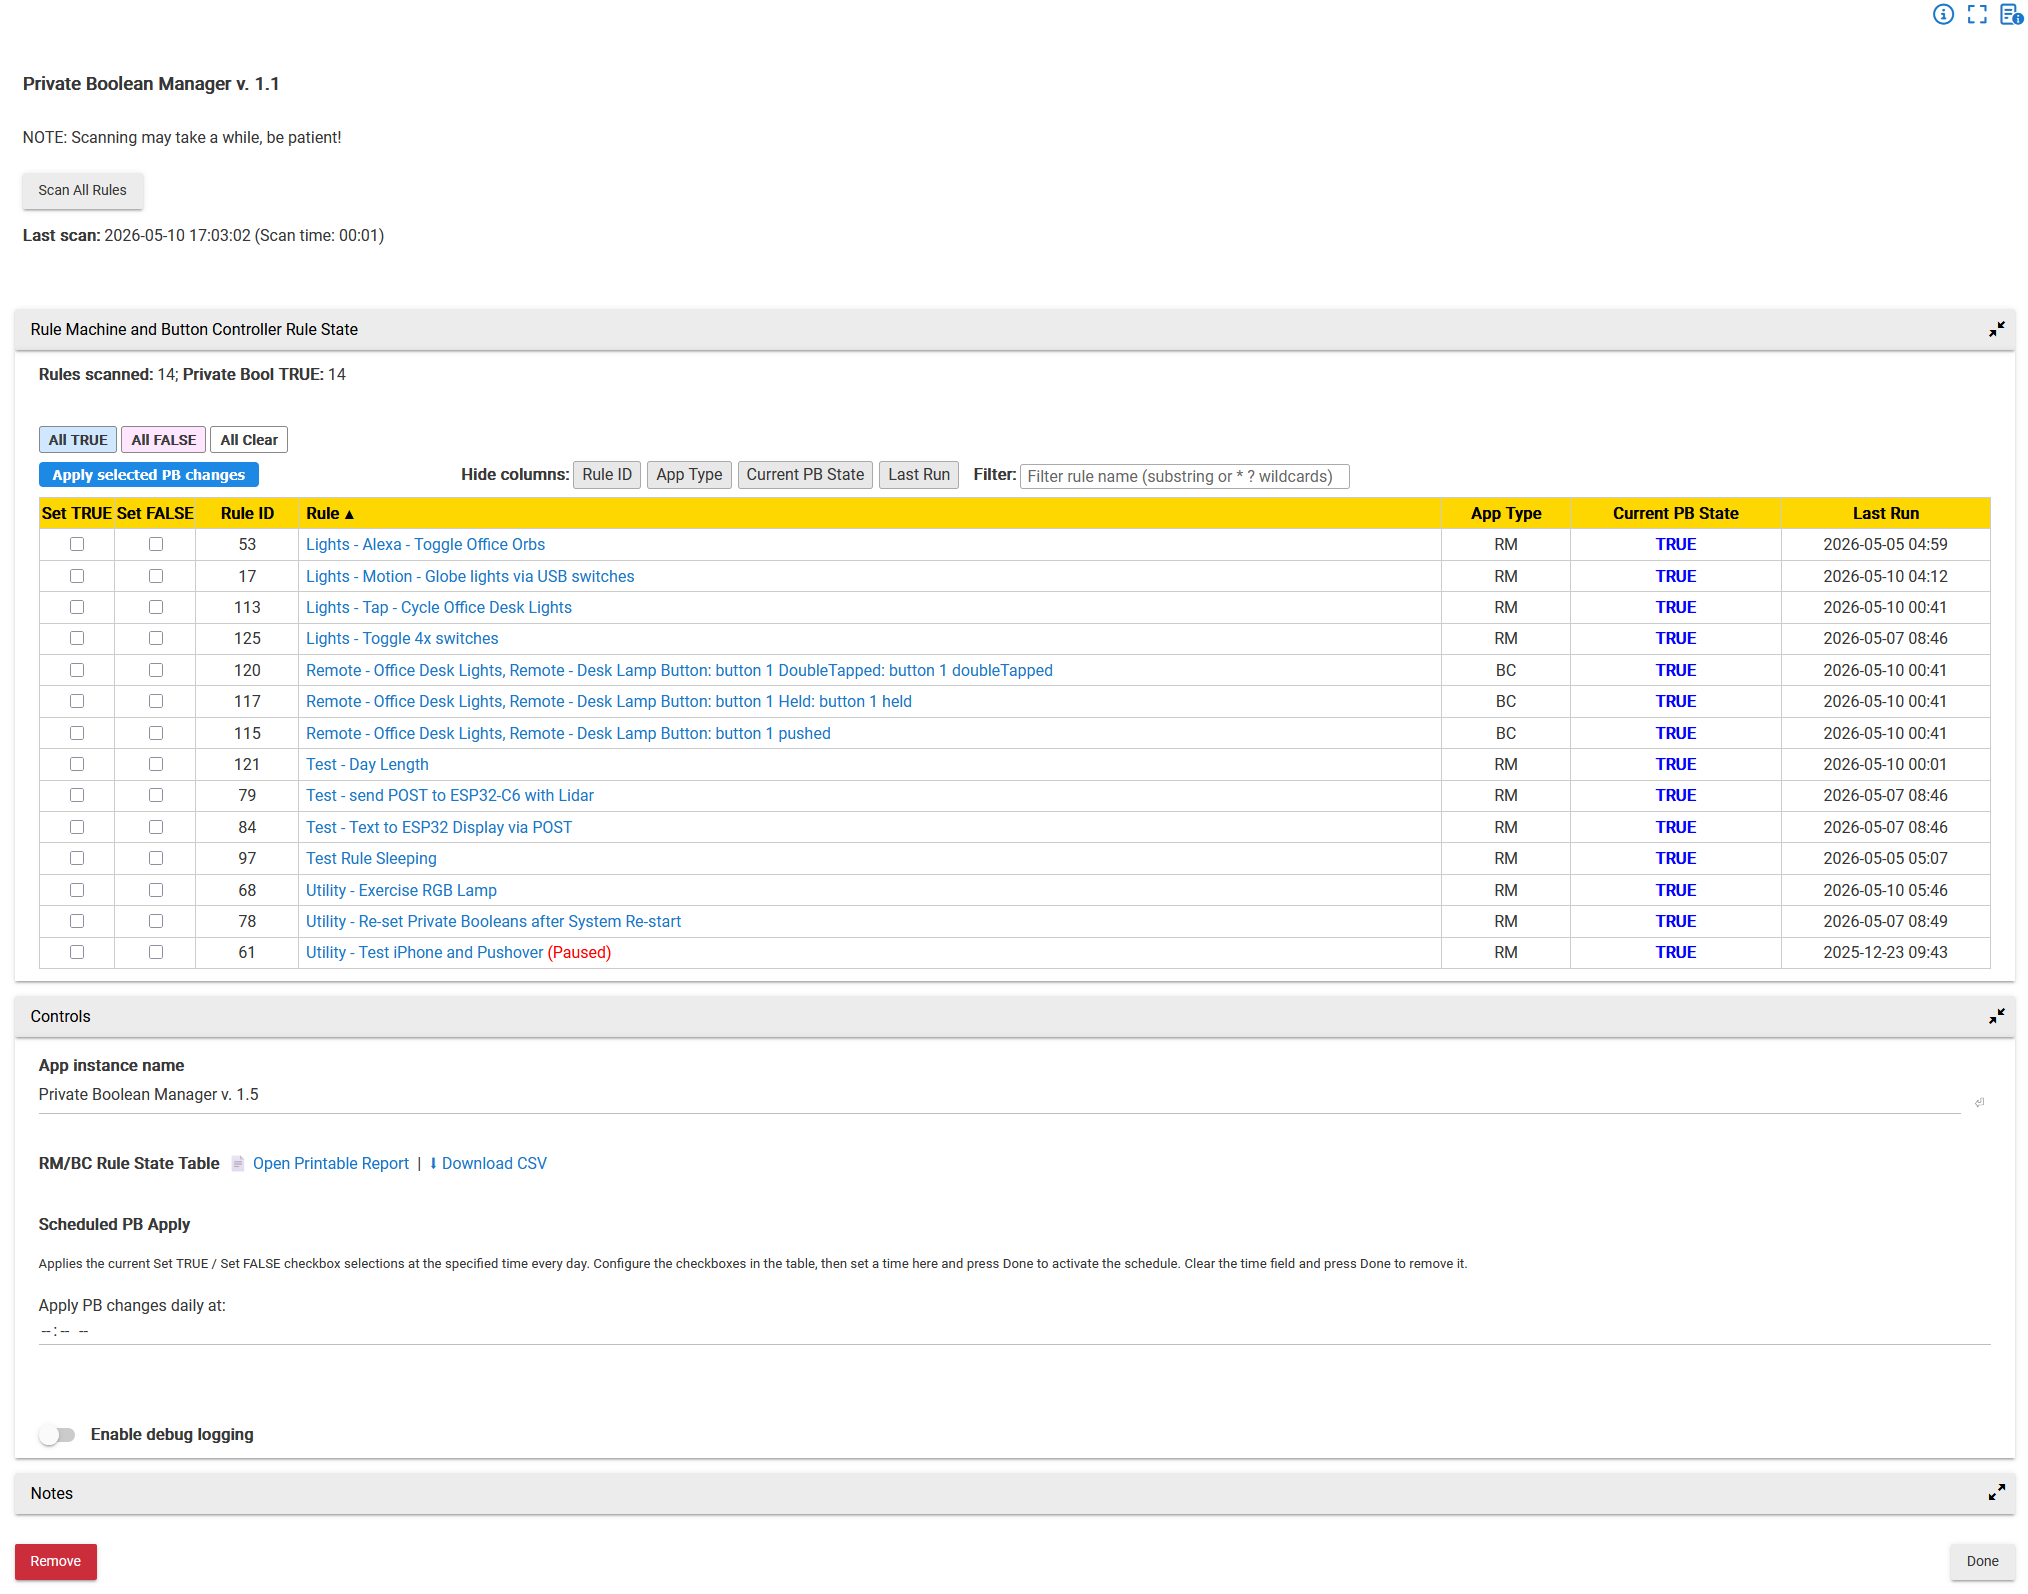
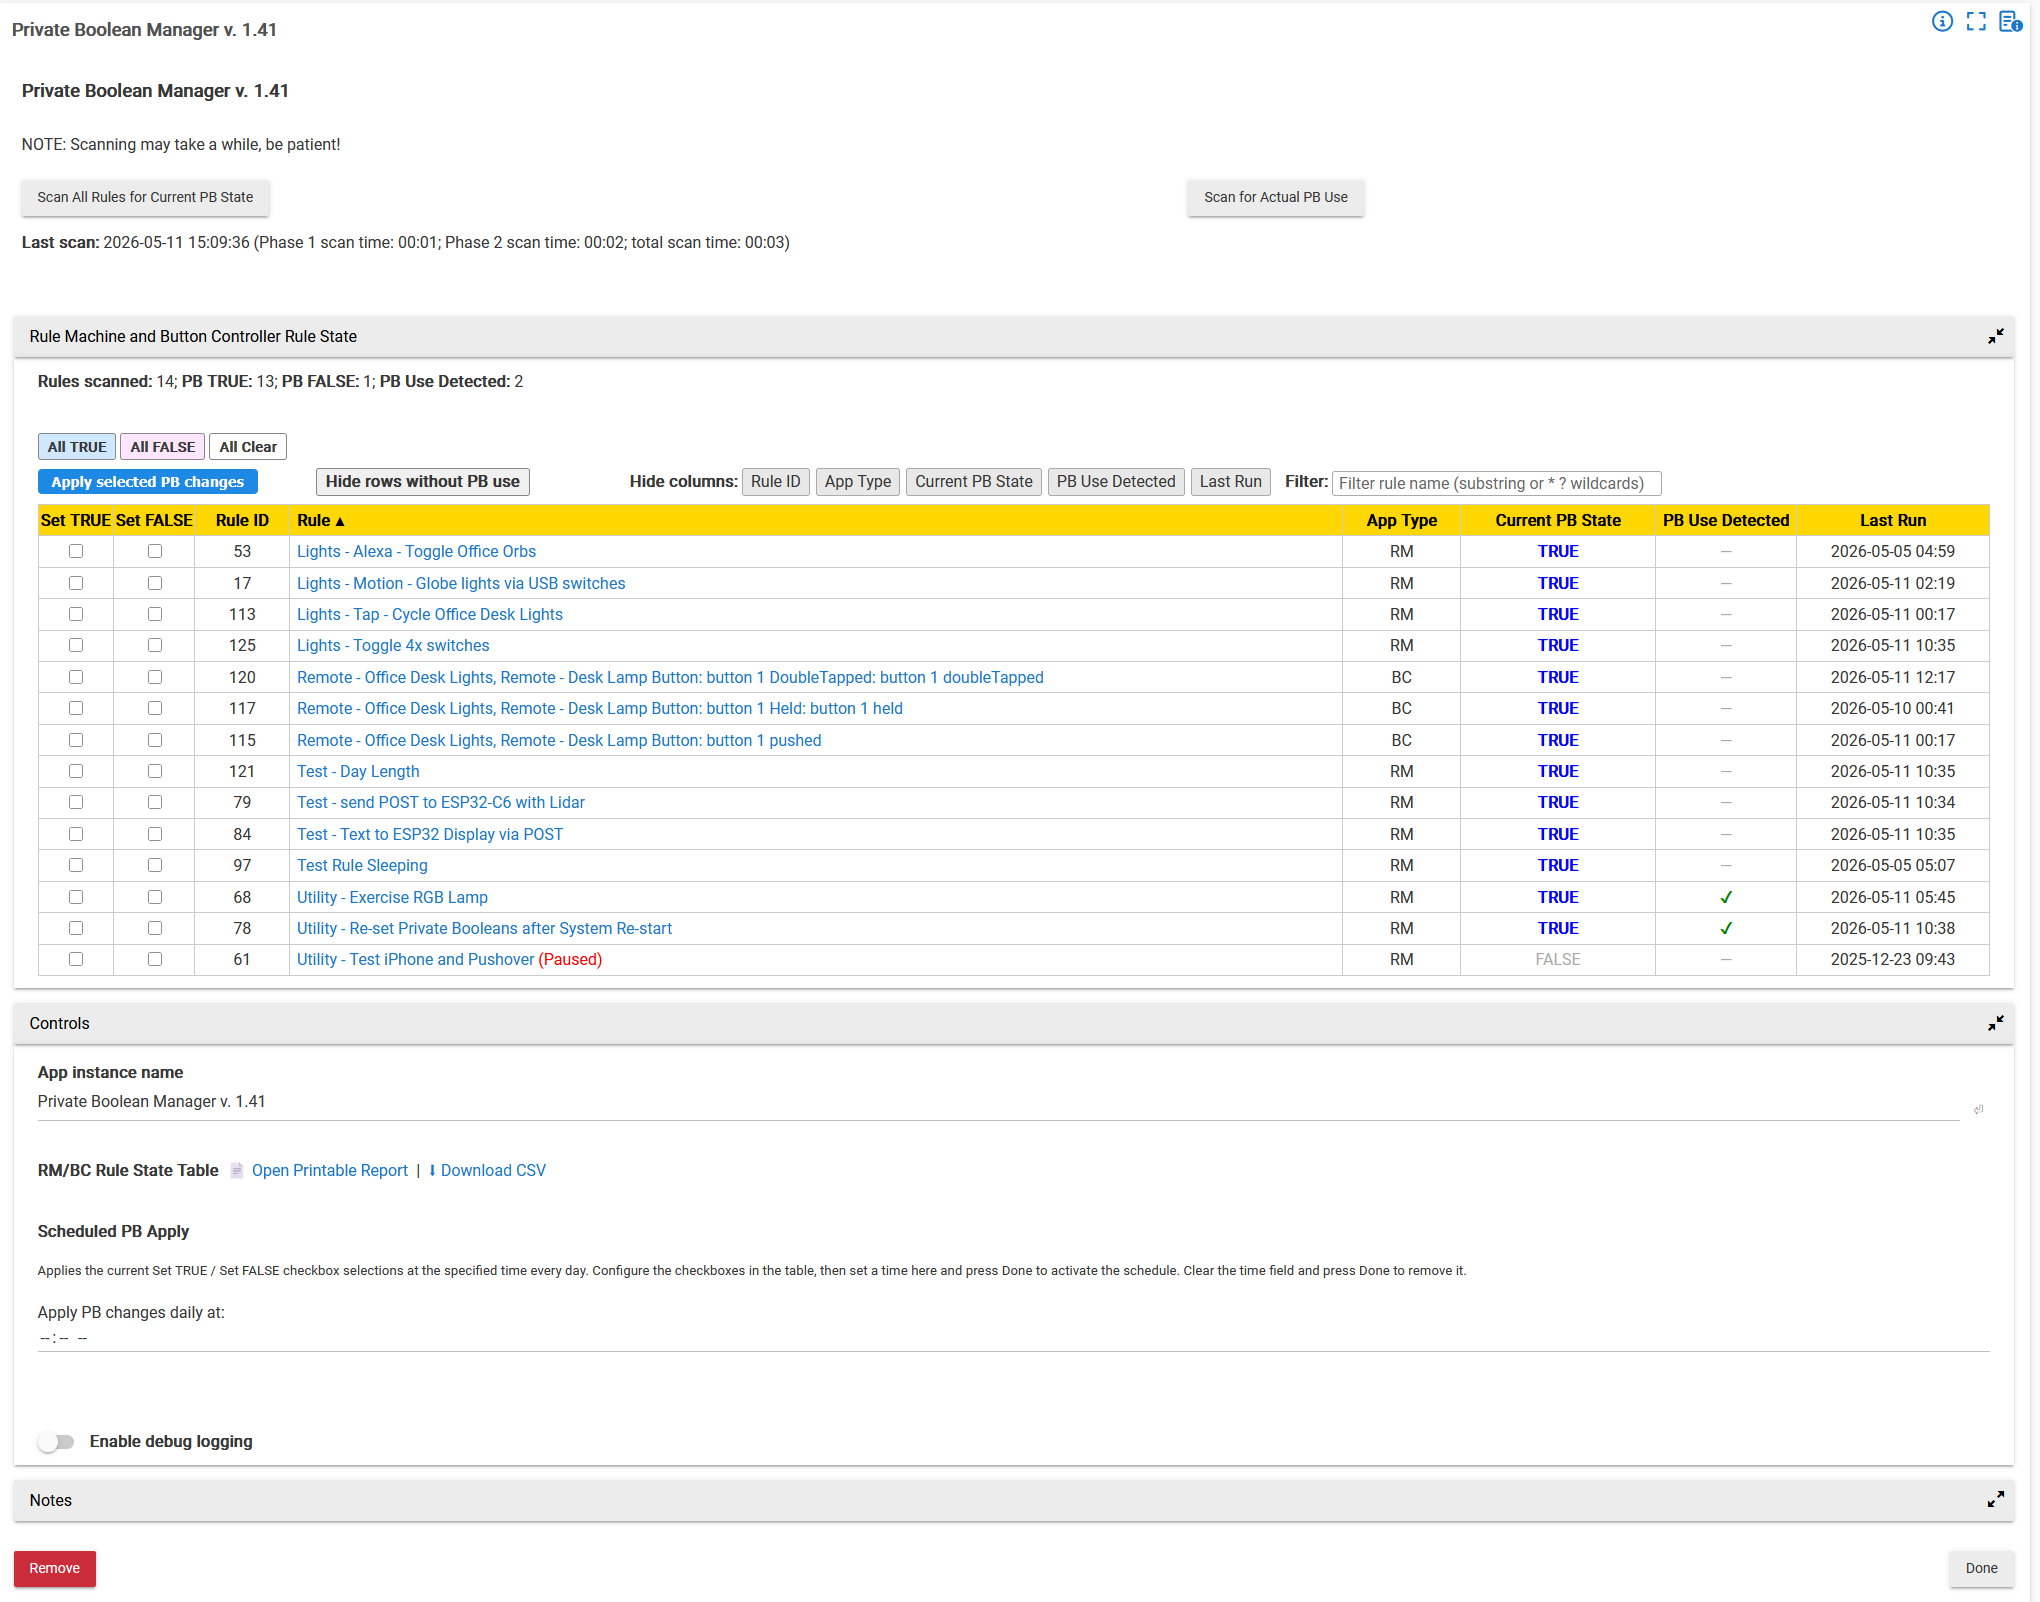
Add files via upload

diff --git a/README.md b/README.md
@@ -1,20 +1,25 @@
 # Private Boolean Manager
 
-A [Hubitat Elevation](https://hubitat.com/) app that scans all Rule Machine (RM) and Button Controller (BC) rules, displays each rule's **Private Boolean state** and **Last Run time** in a sortable table, and provides tools for setting Private Boolean values individually or in bulk — manually or on a daily schedule.
+A [Hubitat Elevation](https://hubitat.com/) app for Rule Machine (RM) and Button Controller (BC) rules. It has two main functions:
+
+1. It scans RM/BC rules and displays each rule's **Private Boolean state**, **PB use detection**, and **Last Run time** in a sortable table.
+2. It lets you set Private Boolean values for multiple rules, either manually from the table or automatically on a daily schedule.
 
 ---
 
 ## Screenshot
-![Private-Boolean-Manager screenshot](Screenshot_2026-05-10_164422.png)
+
+![Private Boolean Manager screenshot](Screenshot_2026-05-10_164422.png)
 
 ---
 
 ## Installation
 
 1. In the Hubitat web UI, go to **Apps Code → + New App** and paste in the app's Groovy source.
-2. Save and then go to **Apps → + Add User App** and select **Private Boolean Manager**.
-3. The app will attempt to create an OAuth token automatically on first open. If it does not, enable OAuth in Apps Code for this app and re-open it.
-4. Click **Scan All Rules** to perform the initial scan.
+2. Save the app code.
+3. Go to **Apps → + Add User App** and select **Private Boolean Manager**.
+4. The app will attempt to create an OAuth token automatically on first open. If it does not, enable OAuth manually in Apps Code for this app and re-open it.
+5. No scan runs automatically on install. Click **Scan All Rules for Current PB State** or **Scan for Actual PB Use** to begin.
 
 ---
 
@@ -22,9 +27,17 @@ A [Hubitat Elevation](https://hubitat.com/) app that scans all Rule Machine (RM)
 
 ### Scanning
 
-Click **Scan All Rules** to start a scan. The app queries Hubitat's internal endpoints asynchronously, rule by rule. When the scan finishes, the table renders automatically and a timestamp with scan duration appears below the button.
+Two scan modes are available:
 
-Re-opening the app after a scan re-renders the table instantly from cached data — no rescan is needed for display setting changes such as hiding columns or adjusting the filter.
+**Scan All Rules for Current PB State** fetches only the runtime status of each rule: Private Boolean value and Last Run time. This is the faster Phase 1 scan, but it may still take a minute or more for hundreds of rules.
+
+**Scan for Actual PB Use** runs the Phase 1 scan first, then runs Phase 2. Phase 2 fetches each rule's internal configuration JSON and checks whether the rule references its own Private Boolean in a condition, action, or trigger. Phase 2 uses a queued `configure/json` pass and may take 5–10 minutes or more for hundreds of rules, especially if some rules are very large.
+
+Before a PB usage scan runs, every **PB Use Detected** cell shows a dash (`—`). After a PB usage scan, cells show a green check mark (`✓`) for detected PB usage or a dash (`—`) when usage was not detected.
+
+After a scan, the top summary shows counts for rules scanned, PB TRUE, PB FALSE, and PB Use Detected. The scan-time line shows Phase 1 time only for a current-state scan, or Phase 1, Phase 2, and total time for a full PB-use scan.
+
+Clicking **Done** and reopening the app re-renders the table from cached data, so no rescan is needed for display-only changes. The cached table is still stale until a new scan is run.
 
 ---
 
@@ -36,19 +49,49 @@ The table lists every discovered RM and BC rule with the following columns:
 |--------|-------------|
 | **Set TRUE** | Checkbox — mark this rule to have its PB set TRUE on the next Apply |
 | **Set FALSE** | Checkbox — mark this rule to have its PB set FALSE on the next Apply |
-| **Rule ID** | The Hubitat internal app ID for the rule |
+| **Rule ID** | Hubitat internal app ID for the rule |
 | **Rule** | Rule name, linked directly to its configuration page |
-| **App Type** | `RM` (Rule Machine) or `BC` (Button Controller) |
-| **Current PB State** | The rule's Private Boolean value — **TRUE** in bold blue, FALSE in grey, or — if unreadable |
-| **Last Run** | Date and time of the most recent trigger event (`yyyy-MM-dd HH:mm`) |
+| **App Type** | `RM` for Rule Machine or `BC` for Button Controller |
+| **Current PB State** | The rule's Private Boolean value: **TRUE** in bold blue, FALSE in grey, or `—` if unreadable |
+| **PB Use Detected** | Whether the rule references its own PB |
+| **Last Run** | Date and time of the most recent trigger event, formatted as `yyyy-MM-dd HH:mm` |
 
-**Sorting** — click any column header to sort by that column; click again to reverse.
+**Sorting** — click any column header to sort by that column; click again to reverse the sort direction.
 
-**Filter** — type in the Filter box to show only rules whose names contain the entered text (case-insensitive substring match). Use `*` and `?` as wildcards for pattern matching (e.g., `Lights*` shows all rules starting with "Lights"). The filter is applied immediately as you type.
+**Filter** — use the wildcard/name filter above the table to show only matching rules. The filter state persists without clicking **Done**.
 
-**Hide columns** — the **Rule ID**, **App Type**, **Current PB State**, and **Last Run** column buttons toggle those columns on and off. Visibility preferences are saved immediately without pressing Done.
+**Hide columns** — column-hide buttons let you show or hide supported columns. Column visibility persists without clicking **Done**.
 
-**Paused rules** — rules that are currently paused are shown with *(Paused)* appended to their name in orange.
+**Hide rows without PB use** — hides all rows where **PB Use Detected** is `—`, including stale scans where no stale red check mark is present. Click **Show all rows** to restore hidden rows.
+
+**Bulk row buttons** — **All TRUE**, **All FALSE**, and **All Clear** skip hidden rows.
+
+---
+
+### PB Use Detected Column
+
+The **PB Use Detected** column shows whether the rule references its own Private Boolean in a condition, action, or trigger.
+
+| Cell | Meaning |
+|------|---------|
+| Green **✓** | Current Phase 2 scan detected PB usage in this rule |
+| Red **✓** | A prior Phase 2 scan detected PB usage, and a Phase 1-only scan has run since then; the result is stale |
+| **—** | PB usage was not detected, or no PB usage scan has been run yet |
+
+A full **Scan for Actual PB Use** is a combined Phase 1 and Phase 2 scan. After it completes, detected PB usage appears as a green check mark. After that, if you run **Scan All Rules for Current PB State** only, prior PB-use detections are carried forward as red stale check marks. Running **Scan for Actual PB Use** again refreshes the PB-use cells and returns fresh detections to green.
+
+PB-use detection reads each rule's internal configuration JSON from:
+
+```text
+/installedapp/configure/json/{id}
+```
+
+It searches for two confirmed RM 5.0 patterns:
+
+- `"getSetPrivateBoolean"` — the `actSubType` value when a rule action sets the PB TRUE or FALSE.
+- `:"Private Boolean"` — the `rCapab_N` or `tCapab_N` value when the PB is referenced in a condition or trigger.
+
+> **Large rules:** Rules with very large configuration JSON may have their `configure/json` response dropped or time out. Those rules show `—` for PB Use Detected rather than stopping the rest of the scan. The queued scan and watchdog continue with the remaining rules.
 
 ---
 
@@ -56,53 +99,53 @@ The table lists every discovered RM and BC rule with the following columns:
 
 #### Checkbox columns — bulk apply
 
-Each table row has a **Set TRUE** and a **Set FALSE** checkbox:
+Each row has **Set TRUE** and **Set FALSE** checkboxes.
 
-- Checking one clears the other for that row automatically (mutual exclusion).
-- Leaving both unchecked means "no change" for that rule.
+- Checking one automatically clears the other for that row.
+- Leaving both unchecked means no change for that rule.
+- Checkbox selections persist across page refreshes and Done/reopen cycles.
 
-Three bulk-action buttons operate on **visible rows only** (filtered-out rows are skipped):
+The bulk buttons operate on visible rows only. Filtered-out or hidden rows are skipped.
 
 | Button | Action |
 |--------|--------|
 | **All TRUE** | Checks Set TRUE and clears Set FALSE for every visible row |
 | **All FALSE** | Checks Set FALSE and clears Set TRUE for every visible row |
-| **All Clear** | Clears all Set TRUE and Set FALSE checkboxes for all rows |
+| **All Clear** | Clears Set TRUE and Set FALSE for every visible row |
 
-Click **Apply selected PB changes** to send all pending changes to Hubitat in a single request. The table updates immediately to reflect the new values without requiring a rescan.
+Click **Apply selected PB changes** to send all pending changes to the hub. The table updates immediately, but the app does not re-read the affected rules to verify that the hub accepted the change. If a rule's PB value appears unchanged after a rescan, the hub may have silently rejected the action, for example because of a wrong RM version or because the rule was deleted since the last scan.
 
-Checkbox selections persist across page refreshes and Done/reopen cycles — they are saved to the hub each time a checkbox is changed.
+#### Current PB State column — in-table toggle
 
-> **Note:** Changes are issued via `RMUtils.sendAction()` and immediately reflected in the table, but are **not verified** by re-reading the affected rules. If a rule's PB value appears unchanged after a rescan, Rule Machine may have silently rejected the action (e.g. wrong RM version, rule deleted since last scan).
+Click any **Current PB State** cell to toggle that rule's PB in-place.
 
-#### Current PB State column — single-rule toggle
+- TRUE is shown in bold blue.
+- FALSE is shown in grey.
+- A cell showing `—` means the PB state could not be read and is not clickable.
 
-Click any **Current PB State** cell to toggle that rule's Private Boolean immediately:
-
-- The cell updates in-place without a rescan.
-- Cells showing **—** could not read the rule's PB state and are not clickable.
-- The same fire-and-forget caveat applies — the change is not verified by a read-back.
+As with bulk apply, the toggle updates the table immediately and does not re-read the rule to confirm that the change took effect.
 
 ---
 
 ### Scheduled PB Apply
 
-In the **Controls** section, set a time under **Apply PB changes daily at:** and press Done. Each day at that time the app applies whichever Set TRUE / Set FALSE checkboxes are currently saved — exactly as if you had clicked **Apply selected PB changes** manually.
+In the **Controls** section, set a time under **Apply PB changes daily at:** and click **Done**. Each day at that time, the app applies whichever Set TRUE / Set FALSE checkboxes are currently saved. This uses the same saved checkbox state as **Apply selected PB changes**.
 
-- The last run timestamp and rule counts (e.g. *TRUE: 3, FALSE: 2*) appear below the time field after the schedule has fired at least once.
-- To remove the schedule, clear the time field and press Done.
-- The same fire-and-forget caveat applies to scheduled runs.
+- The last scheduled run timestamp appears below the time field after the first run.
+- TRUE/FALSE counts from the last scheduled run are shown when available.
+- To remove the schedule, clear the time field and click **Done**.
+- Scheduled changes are fire-and-forget and are not verified by re-reading rule state.
 
 ---
 
 ### Reports
 
-In the **Controls** section (after a scan):
+In the **Controls** section, after a scan:
 
-- **Open Printable Report** — opens a formatted HTML page suitable for printing or saving, listing all rules with their current PB state and last-run time.
-- **Download CSV** — downloads a comma-separated file of the same data for use in a spreadsheet.
+- **Open Printable Report** opens a formatted HTML report of the scanned rules.
+- **Download CSV** downloads the same table data as a CSV file.
 
-Both reports reflect the data from the most recent scan.
+Reports use the cached data from the most recent scan. If PB-use detections are stale, the printable report and CSV indicate stale results where applicable.
 
 ---
 
@@ -111,9 +154,9 @@ Both reports reflect the data from the most recent scan.
 | Control | Description |
 |---------|-------------|
 | **App instance name** | Rename this app instance |
-| **Open Printable Report** | HTML report of all scanned rules (requires a completed scan) |
-| **Download CSV** | CSV export of all scanned rules |
-| **Apply PB changes daily at:** | Optional daily schedule for automatic bulk PB apply |
+| **Open Printable Report** | Open a printable HTML report after a scan |
+| **Download CSV** | Download a CSV export after a scan |
+| **Apply PB changes daily at:** | Optional daily schedule for automatic PB apply |
 | **Enable debug logging** | Turns on verbose debug output to the Hubitat log; auto-disables after 30 minutes |
 
 ---
@@ -124,29 +167,32 @@ The app uses the following Hubitat local/internal endpoints:
 
 | Endpoint | Purpose |
 |----------|---------|
-| `/hub2/appsList` | Discover all RM and BC rules |
-| `/installedapp/statusJson/{appId}` | Read per-rule Private Boolean state and last-run time |
-| `/apps/api/{appId}/setPB` | In-table single-rule PB toggle (OAuth) |
-| `/apps/api/{appId}/bulkPB` | Bulk PB apply from checkboxes (OAuth) |
-| `/apps/api/{appId}/setpref` | Persist column-hide and checkbox preferences (OAuth) |
-| `/apps/api/{appId}/report` | Printable HTML report (OAuth) |
-| `/apps/api/{appId}/RM-BC_Rules.csv` | CSV export (OAuth) |
+| `/hub2/appsList` | Discover RM and BC rules |
+| `/installedapp/statusJson/{appId}` | Read per-rule PB state and Last Run time during Phase 1 |
+| `/installedapp/configure/json/{appId}` | Read per-rule configuration JSON for PB-use detection during Phase 2 |
+| `/apps/api/{appId}/setPB` | In-table single-rule PB toggle |
+| `/apps/api/{appId}/bulkPB` | Bulk PB apply from checkboxes |
+| `/apps/api/{appId}/setpref` | Persist column-hide, filter, and checkbox preferences |
+| `/apps/api/{appId}/report` | Printable HTML report |
+| `/apps/api/{appId}/RM-BC_Rules.csv` | CSV export |
 
-> **Warning:** The `/hub2/appsList` and `/installedapp/statusJson/` endpoints are internal Hubitat APIs with no formal public specification. They could change in a future Hubitat platform release.
+> **Warning:** The `/hub2/appsList`, `/installedapp/statusJson/`, and `/installedapp/configure/json/` endpoints are internal Hubitat APIs and are not formal public APIs. They could change in a future Hubitat platform update.
 
-Private Boolean changes use `RMUtils.sendAction()` targeting **Rule Machine version 5.0**. Rules created under earlier RM versions will display their PB state correctly but the toggle and bulk-apply actions may not work.
+Private Boolean changes use `RMUtils.sendAction()` targeting **Rule Machine version 5.0**. Rules created under earlier Rule Machine versions may display their PB state correctly, but PB changes may be silently ignored.
 
 ---
 
 ## Limitations
 
-- **No write verification.** PB changes are fire-and-forget. The table is updated optimistically based on the requested value, not the confirmed new state. Run **Scan All Rules** after applying changes to confirm the actual state from the hub.
-- **RM 5.0 only.** Rules from earlier Rule Machine versions are displayed but PB changes may be silently ignored by Rule Machine.
-- **Basic Button Controller excluded.** BBC rules use a fundamentally different internal structure and are not included in the scan.
-- **Rule Machine internal API.** If Hubitat changes the internal JSON endpoint formats, the scan or PB detection may break until the app is updated.
+- **No write verification.** PB changes are fire-and-forget. The table updates optimistically based on the requested value. Run **Scan All Rules for Current PB State** to confirm actual rule state from the hub.
+- **Internal Hubitat APIs.** The app relies on internal JSON endpoints whose structure could change in future Hubitat platform versions.
+- **RM 5.0 PB actions.** PB setting uses `RMUtils.sendAction()` with RM version `5.0`; older Rule Machine rules may not accept PB changes.
+- **Large Phase 2 responses.** Very large rule configuration JSON may time out or be dropped. The rule will show `—` in PB Use Detected and the scan will continue.
+- **Basic Button Controller excluded.** Basic Button Controller rules are not included because they use a different internal structure.
+- **Cached display can be stale.** Clicking **Done** and reopening can re-render cached data without a rescan; run a scan to refresh actual hub state.
 
 ---
 
 ## Credits
 
-Designed initially by John Land. Built by Claude AI, with an assist by ChatGPT. The in-table clickable-cell PB toggle technique was adapted from the work of **hubitrep**.
+Designed initially by John Land. Built by Claude AI, with an assist from ChatGPT. The in-table clickable-cell PB toggle technique was adapted from the work of **hubitrep**.